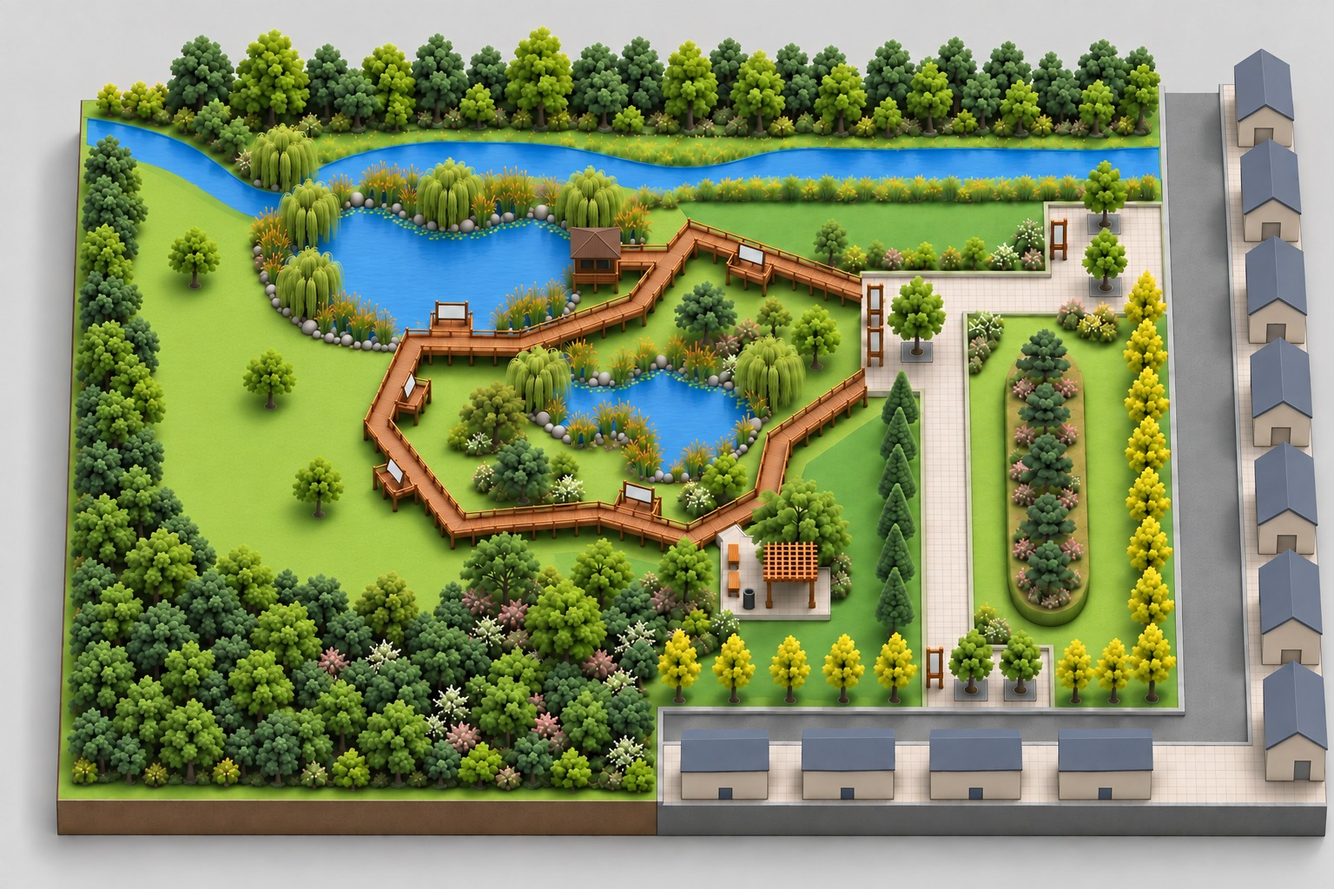
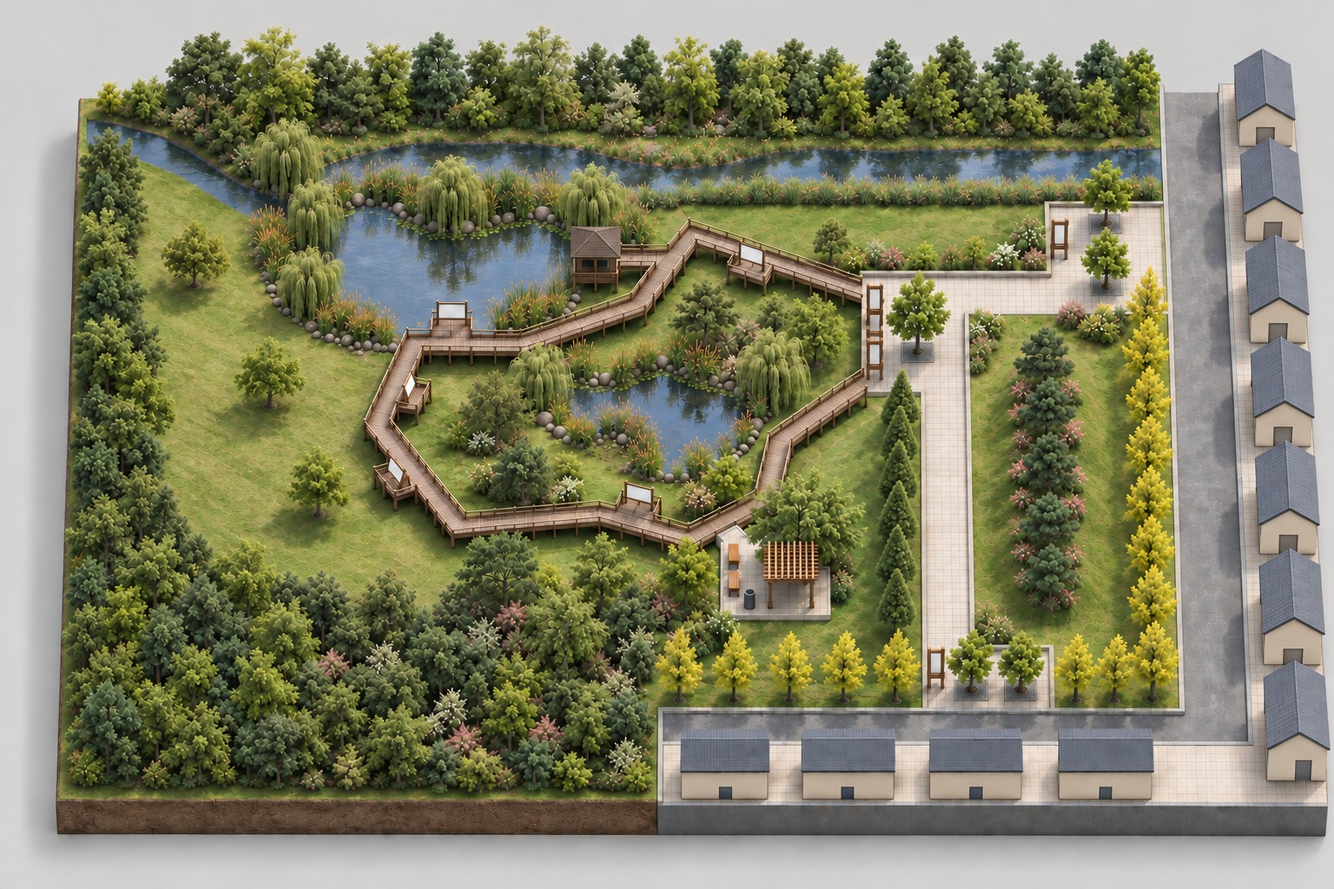
입체평면도 401: 실사 렌더로 (13회차) — 질감만 바꾸고 평행투영은 지켰다
사용자가 "너무 만화 같다, 실사가 좋다"고 해 배치·시설 수·시점(깊이 0.71)·
평행투영은 10회차 그대로 두고 질감만 실사로 바꿨다. 잎이 하나하나 보이는
수관, 결이 있는 잔디, 반사가 비치는 수면, 나뭇결이 보이는 데크·파고라,
실제 콘크리트 블록 포장과 아스팔트.

실사를 주문하면 모델이 원근으로 되돌아가기 쉬우므로 평행투영 문장
(부지가 사다리꼴이 아니라 평행사변형 · 도로 띠 폭이 위아래로 같다 ·
주택이 모두 같은 크기 · 깊이 0.71)을 같은 프롬프트에 통째로 남겼고
회차마다 화소로 쟀다. 동측 도로 띠 왼쪽 끝 10회차 1351·1349·1361px →
13회차 1352·1356·1361px, 모형 왼쪽 변 기울기 -18px → -16px(730px 기준).

11회차에서 모임광장 안내판이 3개→2개로 줄었고, 12회차에 "3개여야 한다"로는
안 고쳐지고 선명도만 떨어졌다(1790→1161). 13회차에 11회차로 돌아가
"그 줄을 세어 하나, 둘, 셋이 되도록 세 번째를 그려라"로 적으니 됐다.
마운딩도 평평한 화단에서 잔디 언덕으로 돌아왔다.

diff --git a/templates/main/_weed_js.html b/templates/main/_weed_js.html
@@ -775,12 +775,12 @@
             el.dataset.i = i;
             el.title = f.web ? (f.web.title + '\n' + f.web.license + ' · ' + f.web.author) : f.file.name;
             var tag = f.web ? (f.web.license === '공공누리' ? '수목원' : '위키') : '';
-            // 썸네일이 작아 무슨 사진인지 안 보인다 — 돋보기로 크게 본다.
-            // 드래그와 겹치지 않게 버튼을 따로 두고 클릭을 멈춘다
             el.innerHTML = '<img src="' + f.url + '" alt="">'
-                         + (tag ? '<span class="wd-pool-tag">' + tag + '</span>' : '')
-                         + '<button type="button" class="wd-pool-zoom" title="크게 보기"'
-                         + ' onclick="event.stopPropagation(); weedZoom(' + i + ')">⊕</button>';
+                         + (tag ? '<span class="wd-pool-tag">' + tag + '</span>' : '');
+            // 사진을 누르면 크게 본다 (끌어다 놓기는 그대로 된다 — 클릭과 드래그는 다르다).
+            // 예전에는 모서리 돋보기(⊕)를 눌러야 했는데, 작은 단추를 겨냥하기 번거로워
+            // 수정 창과 같이 사진 전체를 누르게 바꿨다
+            el.addEventListener('click', function() { weedZoom(i); });
             el.addEventListener('dragstart', function(e) {
                 e.dataTransfer.setData('text/plain', String(i));
                 // 목록 안에서 시작한 드래그임을 표시한다 — 목록에 도로 놓아도

diff --git a/templates/main/_weed_css.html b/templates/main/_weed_css.html
@@ -276,8 +276,6 @@
     /* 인터넷에서 가져온 사진임을 표시 — 출처를 밝혀야 하는 CC 사진이다 */
     .wd-pool-tag { position: absolute; left: 3px; bottom: 3px; padding: 1px 5px; border-radius: 3px; background: rgba(27,67,50,.85); color: #fff; font-size: 0.6rem; font-weight: 600; }
     /* 크게 보기 — 썸네일이 작아 무슨 사진인지 구별이 안 된다 */
-    .wd-pool-zoom { position: absolute; right: 3px; top: 3px; width: 24px; height: 24px; border: none; border-radius: 50%; background: rgba(0,0,0,.5); color: #fff; font-size: 0.8rem; line-height: 1; cursor: zoom-in; padding: 0; }
-    .wd-pool-item:hover .wd-pool-zoom { background: rgba(0,0,0,.75); }
     .wd-zoom { position: fixed; inset: 0; z-index: 1300; background: rgba(0,0,0,.82); display: flex; flex-direction: column; align-items: center; justify-content: center; gap: 10px; padding: 24px; cursor: zoom-out; }
     .wd-zoom[hidden] { display: none; }
     /* 원본이 작아도(낱장은 450px 안팎) 크게 키워 본다 — 그게 확대다.

diff --git a/_ls_drawing_refs/401_입체평면도/content.md b/_ls_drawing_refs/401_입체평면도/content.md
@@ -1,5 +1,5 @@
 'My' 탭의 색 배치도와 '성운' 탭의 **기본설계도 · 배식설계도**를 GPT 이미지 모델
-(gpt-image-2.5-sunburst)에 주고 만든 **입체평면도**입니다(10회차).
+(gpt-image-2.5-sunburst)에 주고 만든 **입체평면도**입니다(13회차).
 
 '조감도' 탭과 달리 **원근이 없는 평행투영(축측투영)** 입니다. 멀리 있는 것도 가까이 있는 것과
 같은 크기로 그려지므로 **평면도와 그대로 견주어 볼 수 있습니다** — 주택 여덟 채가 모두 같은
@@ -7,6 +7,10 @@
 약 45° 올려본 것이라(깊이가 0.71 로 줄어 있습니다) 시설마다 그림자와 앞면이 보입니다.
 도면 위쪽이 실개천, 왼쪽이 기존수림, 오른쪽과 아래가 6m 도로와 주택가입니다
 (문제지 방위표로는 도면 **왼쪽이 북쪽**입니다).
+
+질감은 **실사 렌더**입니다 — 잎이 하나하나 보이는 수관, 결이 보이는 잔디, 반사가 비치는 수면,
+나뭇결이 살아 있는 데크와 파고라, 실제 콘크리트 블록 포장과 아스팔트. 10회차까지는 점토 모형
+같은 그림이었는데 11~13회차에 질감만 바꿨습니다(아래 참조).
 
 ## 만든 방법
 
@@ -27,95 +31,95 @@
 6. 수목보호대를 되살리고, 포장 위에 서 있던 메타세쿼이아를 옆 잔디로 옮기고, 시설마다
    앞면과 그림자가 보이도록 했습니다(6회차)
 7. 도면과 대조하니 **기존수림이 오른쪽으로 너무 자라** 저수지를 동쪽으로 밀어내고 관찰로 서쪽
-   잔디를 덮고 있었습니다. 수림 경계를 왼쪽으로 당기고 저수지를 서쪽으로 되돌렸습니다(7회차).
-   여기서 시설·수목·투영은 모두 도면과 맞았고, 서쪽 절반이 6~7%쯤 동쪽으로 밀린 것만 남았습니다
+   잔디를 덮고 있었습니다. 수림 경계를 왼쪽으로 당기고 저수지를 서쪽으로 되돌렸습니다(7회차)
 8. 남은 비율을 **"수림 동단은 부지 폭의 12% 지점 · 남측 도로는 50%에서 시작 · 저수지는 14~44%"**
    라는 백분율로 못박아 새로 렌더했습니다(8회차). **하나도 반영되지 않았습니다** — 앞 회차 그림을
    참고로 주면 모델이 그 구도를 그대로 베낍니다
-9. 그래서 앞 회차 그림을 **"시점·질감·물체 모양만 보고 위치·크기는 절대 가져오지 마라"** 로 돌리고
+9. 앞 회차 그림을 **"시점·질감·물체 모양만 보고 위치·크기는 절대 가져오지 마라"** 로 돌리고
    좌표를 더 촘촘히 적어 보았습니다(9회차). 이것도 구도가 그대로였습니다.
    **모델은 백분율·좌표로 배치를 옮기지 못합니다**
-10. 마지막으로 **비율이 아니라 "무엇을 지워라"** 로 바꿔 적었습니다(10회차) — "관찰로 서쪽과
-    저수지 서쪽의 열린 땅에서 나무를 모두 지우고 빈 잔디로 둘 것, 짙은 수림은 왼쪽 가장자리의
-    좁은 띠뿐, 빽빽한 숲은 관찰로 아래쪽에만". **이번에는 한 번에 고쳐졌습니다.**
-    서쪽이 도면처럼 열린 잔디가 되고 저수지와 관찰로가 그만큼 서쪽으로 물러났습니다
+10. **비율이 아니라 "무엇을 지워라"** 로 바꿔 적었습니다(10회차) — "관찰로 서쪽과 저수지 서쪽의
+    열린 땅에서 나무를 모두 지우고 빈 잔디로 둘 것, 짙은 수림은 왼쪽 가장자리의 좁은 띠뿐,
+    빽빽한 숲은 관찰로 아래쪽에만". **한 번에 고쳐졌습니다**
+11. 여기까지는 점토·플라스틱 모형 같은 그림이었습니다. **배치·시점·평행투영은 그대로 두고 질감만**
+    실사로 바꿨습니다(11회차) — 잎이 보이는 수관, 결이 보이는 잔디, 반사가 있는 수면, 나뭇결이
+    보이는 목재, 실제 콘크리트 블록·아스팔트. 평행투영 문장을 같은 프롬프트에 그대로 남겨 둔 덕에
+    **원근으로 되돌아가지 않았습니다**. 다만 모임광장 안내판이 3개에서 2개로 줄었습니다
+12. 안내판과 마운딩을 함께 고치라고 했더니(12회차) 마운딩만 잔디 언덕으로 돌아오고 안내판은
+    그대로 2개였으며, 선명도까지 떨어졌습니다(1790 → 1161). 채택하지 않았습니다
+13. 11회차 그림으로 돌아가 **"그 줄을 세어 하나, 둘, 셋이 되도록 세 번째 안내판을 그려라"** 라고
+    적으니 3개가 됐고 마운딩도 잔디 언덕이 됐습니다(13회차). 이것을 채택했습니다
 
 > 회차마다 색 배치도와 배식설계도를 첫 두 참고 그림으로 다시 주고, 앞 회차 그림을 셋째로 줍니다.
 > 마스크 부분 수정이나 그림을 손으로 자르고 돌리는 일은 하지 않습니다.
 
-**투영은 재서 확인할 수 있는 조건으로, 배치는 "무엇을 지워라"로 적어야 합니다.**
+**투영은 재서 확인할 수 있는 조건으로, 배치와 개수는 "무엇을 지우고 무엇을 그려라"로 적어야 합니다.**
 "원근 없이"라고만 하면 1회차처럼 은근한 투시가 남습니다 — "부지가 사다리꼴이 아니라 평행사변형이다 ·
 도로 띠 폭이 위아래로 같다 · 주택이 모두 같은 크기다"처럼 바꿔 적어야 고쳐집니다. 시점 각도도
 말로는 안 움직이고 **"깊이를 몇 %로 줄여라"** 라야 움직입니다. 그런데 **배치는 백분율이 통하지
-않습니다**(8·9회차 연속 실패) — 모델은 "부지 폭의 12% 지점"을 재지 못합니다. 대신
-**"이 땅의 나무를 지우고 빈 잔디로 둬라"** 처럼 무엇을 그리고 무엇을 지울지로 적으면 한 번에 됩니다.
+않습니다**(8·9회차 연속 실패). 개수도 "3개여야 한다"로는 안 되고(11·12회차) **"세어서 하나, 둘,
+셋이 되도록 세 번째를 그려라"** 라야 됐습니다(13회차).
 
-## 도면과 대조 (10회차)
+**실사를 주문하면 모델이 원근으로 되돌아가기 쉽습니다.** 11회차에 질감만 바꾸면서도 평행투영
+문장을 통째로 남겨 두었고, 회차마다 화소로 재서 확인했습니다 — 동측 도로 띠 왼쪽 끝이
+10회차 1351·1349·1361px, 13회차 1352·1356·1361px 로 같고, 모형 왼쪽 변 기울기도
+10회차 −18px, 13회차 −16px(730px 기준)로 같습니다.
+
+## 도면과 대조 (13회차)
 
 | 항목 | 도면 | 그림 |
 | --- | --- | --- |
-| 투영 | 평행투영(축측투영) | ✓ 도로 띠 폭 70~74px 로 일정 · 모형 왼쪽 변이 730px 내려가는 동안 18px(1.4°) · 주택 8채가 같은 크기 |
-| 부지 | 90m × 60m 직사각형 | ✓ 폭 1,316px(14.6px/m) · 깊이는 0.71 로 줄어 있음(약 45° 올려봄) |
+| 투영 | 평행투영(축측투영) | ✓ 동측 도로 띠 왼쪽 끝이 1352·1356·1361px(높이별) · 모형 왼쪽 변이 730px 내려가는 동안 16px · 주택 8채가 같은 크기 |
+| 부지 | 90m × 60m 직사각형 | ✓ 폭 1,316px · 깊이는 0.71 로 줄어 있음(약 45° 올려봄) |
+| 질감 | — | ✓ 실사 렌더 — 잎이 보이는 수관 · 결이 있는 잔디 · 반사가 비치는 수면 · 나뭇결이 보이는 데크와 파고라 · 콘크리트 블록 포장과 아스팔트 |
 | 주변 | 위 실개천, 왼쪽·아래왼쪽 야산과 기존수림, 오른쪽 6m 도로와 주택가, 아래 오른쪽 절반에 6m 도로 | ✓ (7·10회차에 수림을 왼쪽 좁은 띠로 당김) |
-| 저수지구 | 왼쪽 위, 실개천에 붙은 자연형 연못 · 버드나무 5 · 부들·갈대 | ✓ (10회차에 서쪽으로 물러남) |
-| 조류관찰소 | 저수지 남동 물가, 관찰로에 붙어 1개소 | ✓ 1개 — 지붕 아래 앞벽과 기둥이 보임 |
+| 저수지구 | 왼쪽 위, 실개천에 붙은 자연형 연못 · 버드나무 5 · 부들·갈대 | ✓ |
+| 조류관찰소 | 저수지 남동 물가, 관찰로에 붙어 1개소 | ✓ 1개 — 지붕 아래 앞벽과 창이 보임 |
 | 습지지구 | 가운데, 자연형 호안의 작은 연못 · 갈대·부들·돌 | ✓ |
-| 관찰로 | 목재데크, 습지를 다각형으로 한 바퀴 돌아 모임광장에서 닫힘 | ✓ 닫힌 고리 · 데크 옆면·난간·하부 기둥·그림자까지 |
+| 관찰로 | 목재데크, 습지를 다각형으로 한 바퀴 돌아 모임광장에서 닫힘 | ✓ 닫힌 고리 · 데크 널 이음매·난간·하부 기둥·그림자까지 |
 | 관찰데크 | 5개소, 안내판 5개 | ✓ 5개 · 각각 빈 안내판 1개 |
 | 휴게공간 | 8m × 8m, 파고라 4×4 1 · 평의자 · 휴지통 1 | ✓ 파고라 1(기둥 4개와 살대 그림자) · 평의자 2 · 휴지통 1 · 그늘목 |
-| 모임광장 | 습지 동쪽, 서쪽 안내판 3 · 수목보호대 1 | ✓ (안내판은 2회차, 보호대는 6회차에 고침) |
+| 모임광장 | 습지 동쪽, 서쪽 안내판 3 · 수목보호대 1 | ✓ (안내판은 13회차에 3개로 되돌림) |
 | 진입광장 | 2개소(북동 모서리 · 남측), 종합안내판 1 · 수목보호대 2씩, 도로로 바로 열림 | ✓ 보호대 합계 5개(모임광장 1 + 진입광장 2+2) |
 | 남북 동선 | 두 진입광장을 잇는 소형고압블록 포장 | ✓ 동측 도로와 평행 |
-| 배식 | 동선 서쪽 메타세쿼이아 열식 · 동쪽 마운딩에 소나무 7 + 철쭉 · 도로변 은행나무 열식 · 산림지구 다층림 · 저수지·관찰로 서쪽은 열린 잔디 | ✓ (4·5·6·10회차에 고침 — 한 줄로, 포장 아닌 잔디 위에, 서쪽은 비움) |
+| 배식 | 동선 서쪽 메타세쿼이아 열식 · 동쪽 마운딩에 소나무 7 + 철쭉 · 도로변 은행나무 열식 · 산림지구 다층림 · 저수지·관찰로 서쪽은 열린 잔디 | ✓ 마운딩은 잔디 언덕에 소나무 7주(13회차) |
 | 글자 | 없음 | ✓ |
 
 남은 차이는 **저수지가 도면보다 조금 동쪽·넓다**는 것(도면 부지 폭의 14~44%, 그림 약 19~50%)과
 **남측 도로가 55% 지점에서 시작**한다는 것(도면 50%)입니다.
 
-비용은 10장 약 $0.41 입니다.
+비용은 13장 약 $0.53 입니다.
 
-## 프롬프트 — 마지막 회차(10회차, 참고: 색 배치도 + 배식설계도 + 7회차 그림)
+## 프롬프트 — 마지막 회차(13회차, 참고: 색 배치도 + 배식설계도 + 11회차 그림)
 
-앞 회차 그림을 함께 주고 "무엇을 지울지"만 적은 것입니다. 1~9회차 프롬프트는 뺐습니다.
+앞 회차 그림을 함께 주고 고칠 두 가지만 적은 것입니다. 1~12회차 프롬프트는 뺐습니다.
 
-    The FIRST attached image is the authoritative colour-coded site plan (top-down) of a small Korean ecological park. The SECOND attached image is the hand-drawn planting plan. The THIRD attached image is an axonometric model of the same park: copy its CAMERA, its PARALLEL PROJECTION, its MODEL STYLE, its LIGHTING and the three-dimensional shape of every object.
+    The FIRST attached image is the colour-coded site plan of a small Korean ecological park. The SECOND is its hand-drawn planting plan. The THIRD attached image is a PHOTOREALISTIC axonometric render of the same park. Its LAYOUT, its CAMERA, its PARALLEL PROJECTION, its MATERIALS, its TEXTURES and its LIGHTING are all CORRECT and must be reproduced exactly. It stays photorealistic.
 
-    Render this fresh and sharp. Keep the third image's composition and every one of its objects, and make ONE change.
+    Two small things are wrong. Fix only these. Move nothing else, add nothing else, remove nothing else, and do not change the render style.
 
-    THE ONE CHANGE — CLEAR THE TREES OUT OF THE WESTERN LAWN.
-    Look at the left half of the third image: a dense mass of trees runs from the left edge across almost a third of the park and presses right up against the west side of the timber boardwalk ring and against the west shore of the reservoir.
+    FIX 1 — THERE MUST BE THREE SIGNBOARDS ON THE GATHERING PLAZA, NOT TWO.
+    Find the gathering plaza: the block-paved square immediately to the right of the timber boardwalk ring, the one with a single tree standing in a square metal grate. Along its LEFT edge, where the paving meets the grass, two blank timber signboards stand one behind the other, facing the wetland.
+    DRAW A THIRD ONE. Place it in the same line, below the lower of the two, the same size and the same design as the other two, standing on the paving and facing the wetland the same way, with the same spacing between it and the board above it as there is between the existing pair. When you are finished, counting down that edge must give one, two, THREE separate signboards, each a timber frame with a plain blank white panel. The tree in its grate stays exactly where it is, to the right of the boards.
 
-    In the first image that ground is NOT wooded. It is plain light-green mown grass. The dark woodland there is only a NARROW STRIP down the very left edge of the park — about as wide as the reservoir is tall, no wider.
+    FIX 2 — THE MOUND IS A RAISED GRASSY HILL, NOT A FLAT BED.
+    East of the straight block-paved path, in the open lawn, the long planted feature must read as a MOUND: ground that swells upward into a low elongated grassy hill, its near slope catching the sun and its far slope in shadow, its turf continuous with the lawn around it and its edges melting into that lawn. In the third image it has become a flat planting bed with a clipped hedge border and bare soil — remove the hedge border and the bare soil, cover it in the same real turf as the lawn, and lift it into a rounded hill. The EXACTLY 7 pines and the broad masses of azaleas stay where they are, now growing out of the grassy slope.
 
-    So: DELETE the trees from the open ground between that narrow left-edge strip and the boardwalk ring, and between the strip and the reservoir. Leave plain, empty, light-green mown grass there — no canopy, no shrub masses, no flowering bushes. At most three or four isolated single specimen trees standing well apart on the open lawn, as the first image shows. The result must read as a broad open meadow wrapping round the west of the reservoir and the west and south-west of the boardwalk ring.
+    THE RENDER STYLE STAYS PHOTOREALISTIC, exactly as in the third image:
+    - Real broadleaf and conifer canopies with individual leaves, real branch structure, varied natural greens, rough bark. Never smooth spheres, cones or blobs of flat colour.
+    - Real turf with visible blade texture and mowing direction. Real water with reflections and ripples. Real weathered timber with visible grain and board joints on the boardwalk, rails, platforms, hut and pergola. Real concrete block paving, real granite, real asphalt with concrete kerbs, real cast-metal tree grates, real roof tiles and rendered walls on the houses, real soil in the slab's cut face.
+    - One natural sun from the upper left, soft realistic shadows, natural colour balance. No sky, no horizon, plain neutral background.
+    - FORBIDDEN: plastic, clay, toy, miniature-model, low-poly, isometric game art, cartoon, illustration, flat over-saturated colours, outlines. It must look photographed.
 
-    Then let the reservoir and the boardwalk ring sit further WEST, in the room the trees have given up, so the reservoir's west shore comes close to the narrow left-edge strip. Everything east of the boardwalk ring — the gathering plaza, the straight path, the mound, the entrance plazas, the roads, the houses — stays exactly where it is.
-
-    Two related corrections:
-    - The DENSE WOODLAND belongs in the LOWER LEFT and the LOWER MIDDLE, below the boardwalk ring, where it is the newly planted multi-layered woodland merging into the existing forest. It may fill the bottom-left third. It must NOT climb up the left side past the reservoir.
-    - The 6 m road along the bottom edge begins at the MIDDLE of the bottom edge and runs to the bottom-right corner, covering the whole right half. In the third image it begins too far right.
-
-    CAMERA AND PROJECTION — copy from the third image exactly:
+    THE PROJECTION MUST NOT CHANGE — it is an ORTHOGRAPHIC camera, not a lens:
     - PARALLEL (axonometric) projection. NO perspective, NO vanishing point, NO convergence anywhere.
-    - The ground slab is a rectangle seen from 45 degrees above, its DEPTH foreshortened to 0.71 of true, exactly as in the third image. Nothing rotated: far and near edges exactly HORIZONTAL and parallel, left and right edges exactly VERTICAL and parallel, and the slab NOT wider at its near edge than at its far edge.
-    - Every line running far-to-near runs in one single direction and never converges with the others; every line running left-to-right runs in one single other direction.
-    - An object near the bottom of the picture is exactly the same size as the identical object near the top: all houses the same size, all ginkgos in a row the same size, all paving blocks the same size. All vertical edges exactly vertical and parallel.
-    - Same orientation and framing: stream and reservoir at the TOP, narrow woodland strip on the LEFT, road and houses on the RIGHT, second road and houses along the BOTTOM RIGHT.
-    - Same clean matte low-poly model look, same soft even light, same short shadows toward the bottom, the near-facing side of every object visible and shaded, an earth-coloured side face along the slab's near and left edges. Crisp and sharply detailed.
+    - The ground slab is a PARALLELOGRAM, never a trapezoid: far edge and near edge exactly the same length and exactly horizontal; left and right edges exactly the same length and exactly vertical. The model is NOT wider at the bottom of the picture than at the top.
+    - The right-hand road is a band of CONSTANT width from the top of the picture to the bottom; its two kerb lines straight and parallel. The same for the bottom road.
+    - Every house is exactly the SAME size, near the top of the picture or near the bottom. The same for every ginkgo in its row, every dawn redwood in its row, every paving block, every tree grate.
+    - Every line running far-to-near in the plan — the right-hand road, the straight path, the dawn redwood row, the ginkgo row, the mound — runs in one single direction and never converges with the others. Every line running left-to-right — the stream, the bottom road, the plaza kerbs — runs in one single other direction.
+    - All vertical edges exactly vertical in the picture and exactly parallel to one another.
+    - The camera stays 45 degrees above the ground, the slab's DEPTH foreshortened to 0.71 of true, exactly as in the third image. Same framing and orientation: stream and reservoir at the TOP, narrow woodland strip and forest on the LEFT and lower left, road and houses on the RIGHT, second road and houses along the BOTTOM RIGHT. Do not rotate, flip, zoom or crop.
 
-    EVERYTHING ELSE IS EXACTLY AS IN THE THIRD IMAGE:
-    - The stream crossing the whole top with a wooded hillside beyond it.
-    - The reservoir with 5 willows, reed and cattail beds and shoreline stones; the wetland pond inside the ring, likewise reeded and stoned.
-    - ONE closed ANGULAR ring of raised timber boardwalk round the wetland, with deck edge, rails and low posts; both right-hand ends meeting the gathering plaza; its upper-left run along the reservoir's lower shore.
-    - EXACTLY 5 square timber viewing platforms bumping out from the boardwalk, each with one blank board: on the upper run at the reservoir shore, on the upper-right run near the hut, on the left run, on the lower-left diagonal run, on the lower run near the rest area.
-    - EXACTLY 1 timber bird-watching hut, hipped roof over a visible front wall, on the reservoir's lower-right shore.
-    - The rest area: EXACTLY 1 pergola on four visible posts under a slatted roof, 2 flat benches on its left, 1 litter bin, shaded by a group of broad deciduous trees.
-    - The gathering plaza: EXACTLY 3 blank signboards in a row along its left edge, EXACTLY 1 zelkova in a square grate.
-    - The top-right entrance plaza: EXACTLY 2 zelkovas in grates, 1 blank signboard on its left edge, opening onto the right-hand road.
-    - The bottom entrance plaza: EXACTLY 2 zelkovas in grates side by side, 1 blank signboard on its left edge, opening onto the bottom road. FIVE tree grates in all.
-    - ONE single evenly spaced row of about 12 conical dawn redwoods on the grass immediately LEFT of the straight block-paved path — one row only, never two, never on the paving.
-    - The long mound east of the path: EXACTLY 7 spreading pines with azalea masses, near slope lit, far slope shaded, in open mown lawn.
-    - ONE single row of yellow-green ginkgos inside the right-hand road, continuing inside the bottom road.
-    - Grey-roofed houses of identical size beyond both roads, each showing a lit front wall.
+    EVERYTHING ELSE IS EXACTLY AS IN THE THIRD IMAGE: the stream across the top with wooded hillside beyond; the reservoir with its willows, reed beds and shoreline stones; the wetland pond; ONE closed angular ring of raised timber boardwalk with EXACTLY 5 viewing platforms, each with one blank board; EXACTLY 1 bird-watching hut on the reservoir's lower-right shore; the rest area with EXACTLY 1 pergola, 2 benches and 1 litter bin under shade trees; EXACTLY 1 tree in a grate on the gathering plaza; EXACTLY 2 trees in grates and 1 blank board on the top-right entrance plaza; EXACTLY 2 trees in grates and 1 blank board on the bottom entrance plaza — FIVE tree grates in all; ONE single row of about 12 dawn redwoods on the grass immediately LEFT of the straight path; ONE single row of ginkgos inside the right-hand road continuing inside the bottom road; open mown lawn west of the ring and west of the reservoir with only three or four isolated specimen trees; the dense multi-layered woodland only in the lower left and lower middle.
 
-    STRICT RULES: no new buildings, plazas, paths, bridges, fences, walls or car parks; every board and sign is blank; NO text, letters, numbers, labels, legends, arrows, north arrow, scale bar, grid lines, dimension lines or watermark anywhere; no sky, no horizon, plain neutral background.
+    STRICT RULES: no new buildings, plazas, paths, bridges, fences, walls, cars or people; every board and sign stays blank; NO text, letters, numbers, labels, legends, arrows, north arrow, scale bar, grid lines, dimension lines or watermark anywhere.
